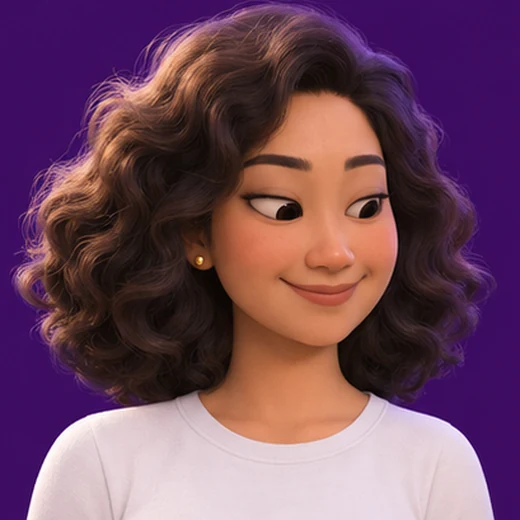
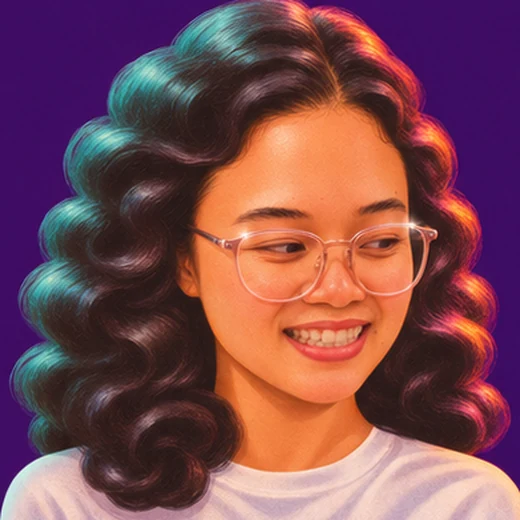
Redesign the hero character as a retro-futurist portrait of Ple
Replace the ten look frames (9 directions + blink) with a 1960s-70s Space Age
style illustration based on Ple's likeness (GPT Image, private references not
in the repo). Same frame names, 520 px WebP + PNG fallback, background retoned
to #3E0D64 to match the card. Update the TH/EN alt text and README.

diff --git a/index.html b/index.html
@@ -64,7 +64,7 @@
     </div>
     <figure class="hero-woman">
       <div class="look-card">
-        <picture class="look is-on" data-look="c"><source srcset="assets/ple/look-c.webp" type="image/webp"><img src="assets/ple/look-c.png" width="520" height="520" decoding="async" alt="ภาพการ์ตูนสามมิติผู้หญิงผมหยิกฟู ใส่เสื้อยืดสีขาว ยิ้มอย่างเป็นมิตร เธอหันหน้าและมองตามเคอร์เซอร์ของคุณ" data-i18n-attr="alt" data-th="ภาพการ์ตูนสามมิติผู้หญิงผมหยิกฟู ใส่เสื้อยืดสีขาว ยิ้มอย่างเป็นมิตร เธอหันหน้าและมองตามเคอร์เซอร์ของคุณ" data-en="3D cartoon of a friendly woman with big fluffy curly hair and a plain white T-shirt. She turns her head and looks toward your pointer."></picture>
+        <picture class="look is-on" data-look="c"><source srcset="assets/ple/look-c.webp" type="image/webp"><img src="assets/ple/look-c.png" width="520" height="520" decoding="async" alt="ภาพวาดเปิ้ลสไตล์เรโทรฟิวเจอร์ยุคอวกาศ ผมหยิกฟูสีเข้ม แว่นกรอบใสสีชมพู ยิ้มกว้าง ใส่เสื้อยืดสีขาว บนพื้นสีม่วง เธอหันหน้าและมองตามเคอร์เซอร์ของคุณ" data-i18n-attr="alt" data-th="ภาพวาดเปิ้ลสไตล์เรโทรฟิวเจอร์ยุคอวกาศ ผมหยิกฟูสีเข้ม แว่นกรอบใสสีชมพู ยิ้มกว้าง ใส่เสื้อยืดสีขาว บนพื้นสีม่วง เธอหันหน้าและมองตามเคอร์เซอร์ของคุณ" data-en="Retro-futurist, Space Age style illustration of Ple with big dark curly hair, clear pink glasses and a wide smile, in a plain white T-shirt on deep purple. She turns her head and looks toward your pointer."></picture>
         <picture class="look" data-look="ul" aria-hidden="true"><source srcset="assets/ple/look-ul.webp" type="image/webp"><img src="assets/ple/look-ul.png" width="520" height="520" decoding="async" alt=""></picture>
         <picture class="look" data-look="u" aria-hidden="true"><source srcset="assets/ple/look-u.webp" type="image/webp"><img src="assets/ple/look-u.png" width="520" height="520" decoding="async" alt=""></picture>
         <picture class="look" data-look="ur" aria-hidden="true"><source srcset="assets/ple/look-ur.webp" type="image/webp"><img src="assets/ple/look-ur.png" width="520" height="520" decoding="async" alt=""></picture>

diff --git a/README.md b/README.md
@@ -6,5 +6,5 @@ Personal portfolio of Porncheera (Ple) Chusorn, Ph.D.
 - Hosting: GitHub Pages from `main` at the repository root, served at `https://applepiece.github.io/portfolio/`.
 - `.nojekyll` keeps Pages from running Jekyll.
 - Language: one language on screen at a time. Every piece of copy sits in a pair of `data-l="th"` / `data-l="en"` elements; attributes and `<title>` use `data-i18n-attr` with `data-th` / `data-en`. Default Thai, `?lang=en` or `?lang=th` overrides, the choice is kept in localStorage (`ple-lang`).
-- Hero illustration: a Pixar-style 3D character made with GPT Image as one 3x3 sheet (nine look directions), sliced into `assets/ple/look-*.webp` (PNG fallbacks) plus a blink frame. `main.js` picks the frame from the pointer angle around her face (looks straight at you within 120 px), cross-fades by opacity and tilts the card by transform only. Touch: last tap, then a slow idle look-around. Static centre frame under `prefers-reduced-motion`. Source sheet and slicing script live outside the repo in the Dropbox portfolio `art/` folder.
+- Hero illustration: a retro-futurist (1960s-70s Space Age) portrait of Ple, made with GPT Image from private reference photos as one 3x3 sheet (nine look directions), sliced into `assets/ple/look-*.webp` (PNG fallbacks) plus a blink frame. `main.js` picks the frame from the pointer angle around her face (looks straight at you within 120 px), cross-fades by opacity and tilts the card by transform only. Touch: last tap, then a slow idle look-around. Static centre frame under `prefers-reduced-motion`. Source sheet, slicing, background retone and blink scripts live outside the repo in the Dropbox portfolio `art/` folder; the reference photos are never committed.
 - Icons are Remixicon 4.9.1 SVG paths inlined in the HTML. Fonts: Kanit and IBM Plex Sans Thai from Google Fonts.
